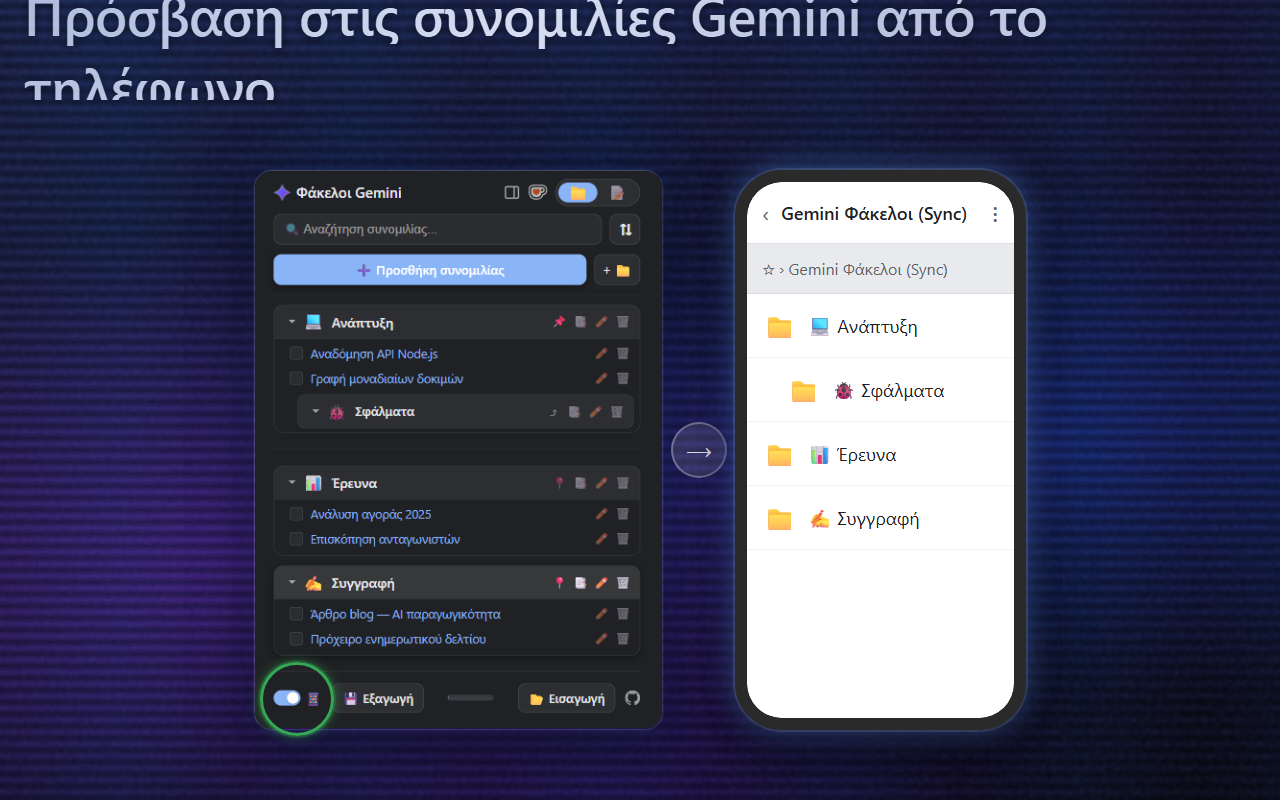
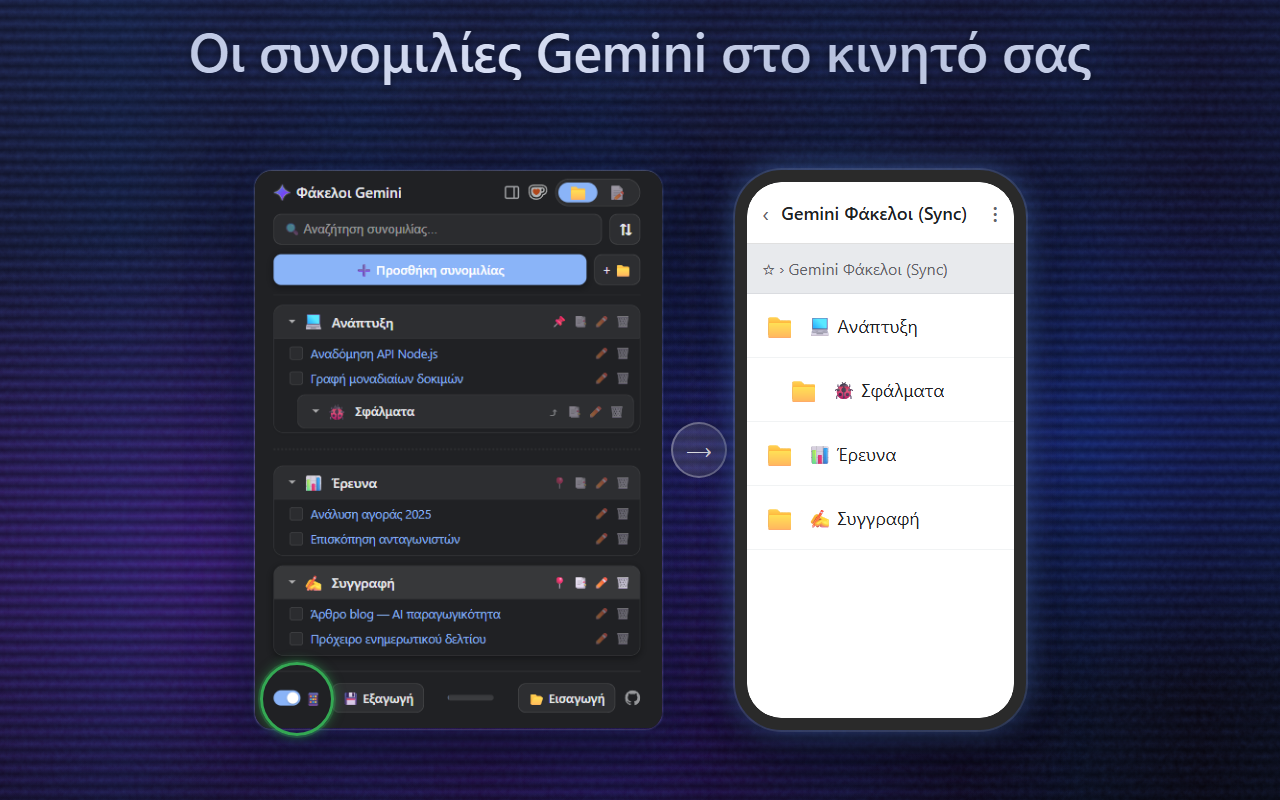
chore(marketing): shorten the Greek mobile-sync title (Gemini Folders Promo 4) (#116)

Changed region(s): [[0.0, 0.0, 0.8438, 0.125]]

diff --git a/screenshots/sample-data.js b/screenshots/sample-data.js
@@ -1788,7 +1788,7 @@ module.exports = {
     promptLabel:      '📝 Λειτουργία prompt',
     folderScreenTitle: 'Διατηρήστε τις συνομιλίες σας οργανωμένες',
     promptScreenTitle: 'Τα καλύτερα prompt σας, πάντα πρόχειρα',
-    mobileScreenTitle: 'Πρόσβαση στις συνομιλίες Gemini από το τηλέφωνο',
+    mobileScreenTitle: 'Οι συνομιλίες Gemini στο κινητό σας',
     contextMenuScreenTitle: 'Αποθηκεύστε μια συνομιλία με ένα δεξί κλικ',
     ctxMenuSaveLabel: 'Αποθήκευση στο Gemini Φάκελοι',
     ctxBack:    'Πίσω',
